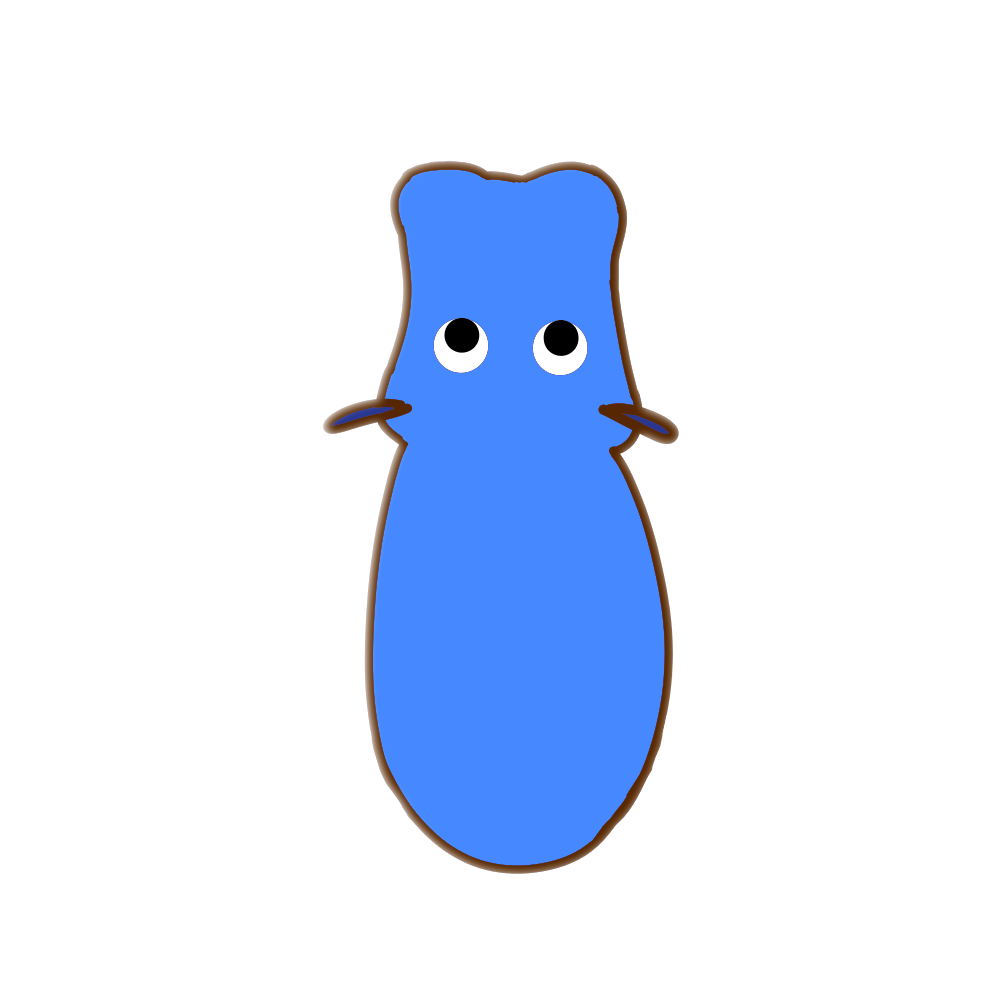
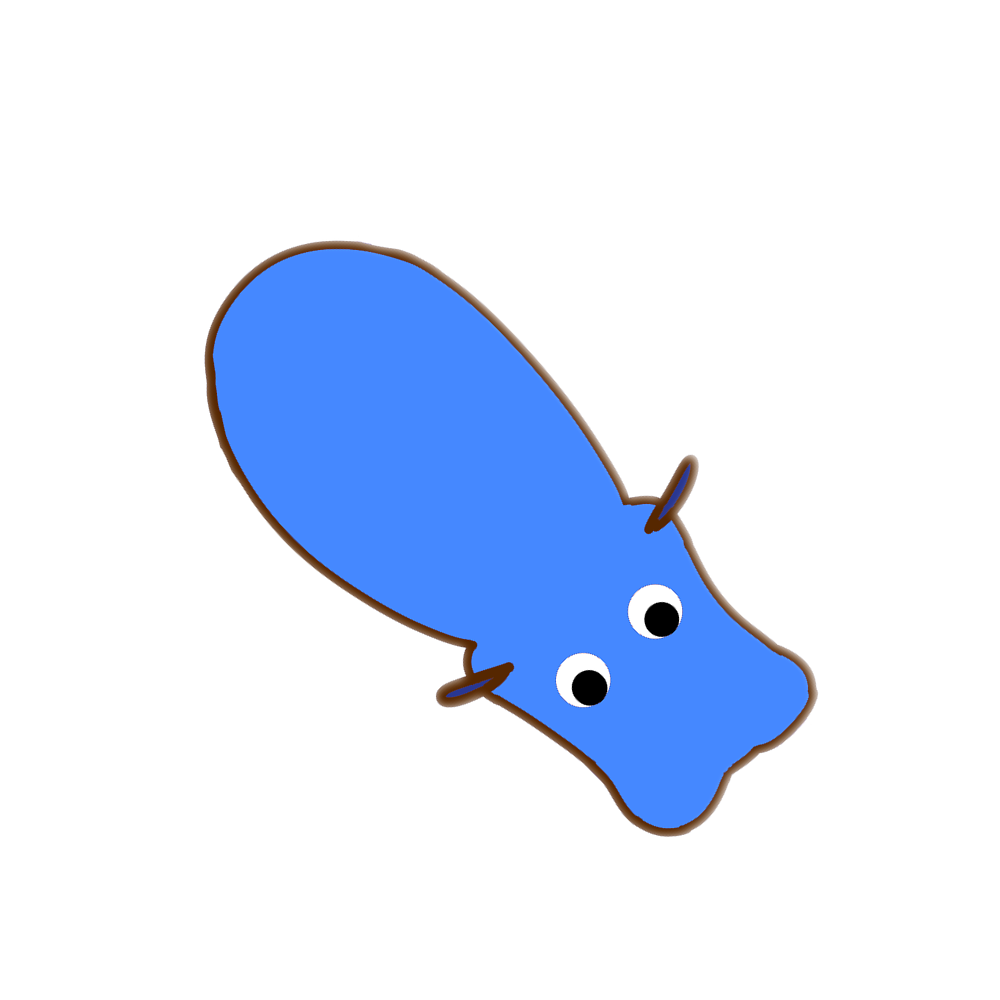
flipped the hippos so they are diagonal

Changed region(s): [[0.186, 0.155, 0.837, 0.899], [0.558, 0.651, 0.62, 0.713]]

diff --git a/scripts/game.js b/scripts/game.js
@@ -1,0 +1,9 @@
+let canvas = document.getElementById("gameCanvas");
+
+let blue = "public/images/blue.png";
+let red = "public/images/red.png";
+let yellow = "public/images/yellow.png";
+let green = "public/images/green.png";
+
+let imgObj = new Image();
+imgObj.src = blue;
